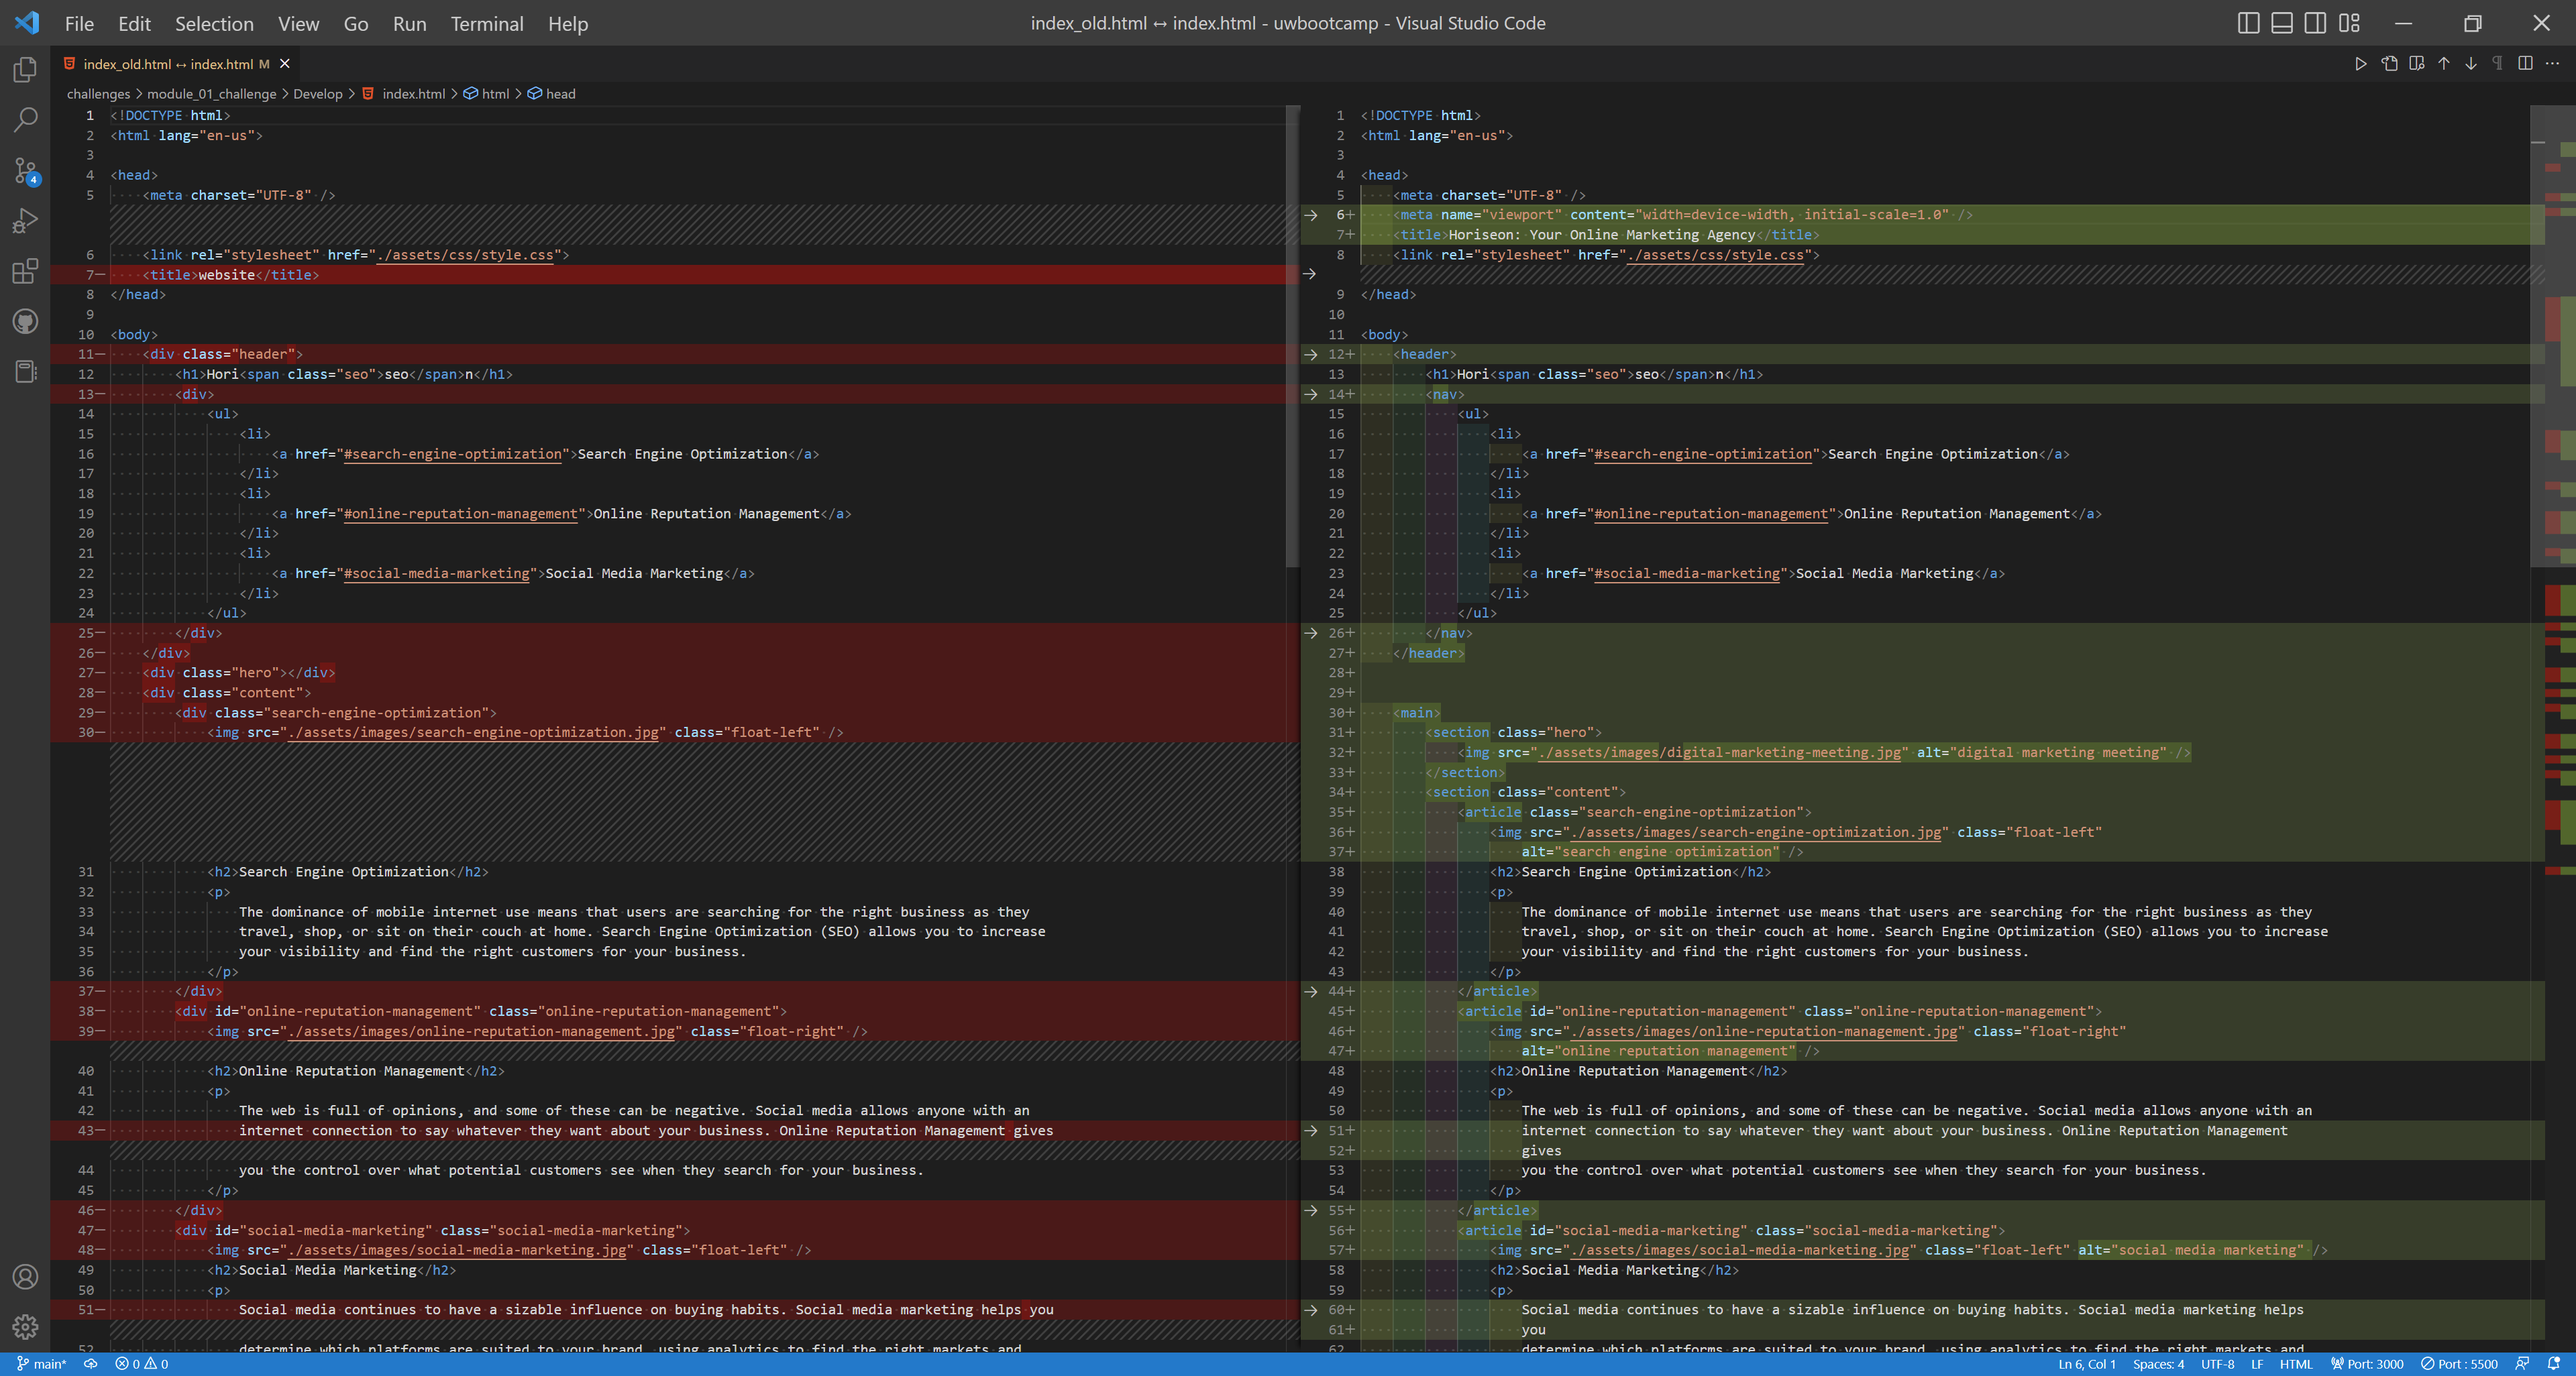
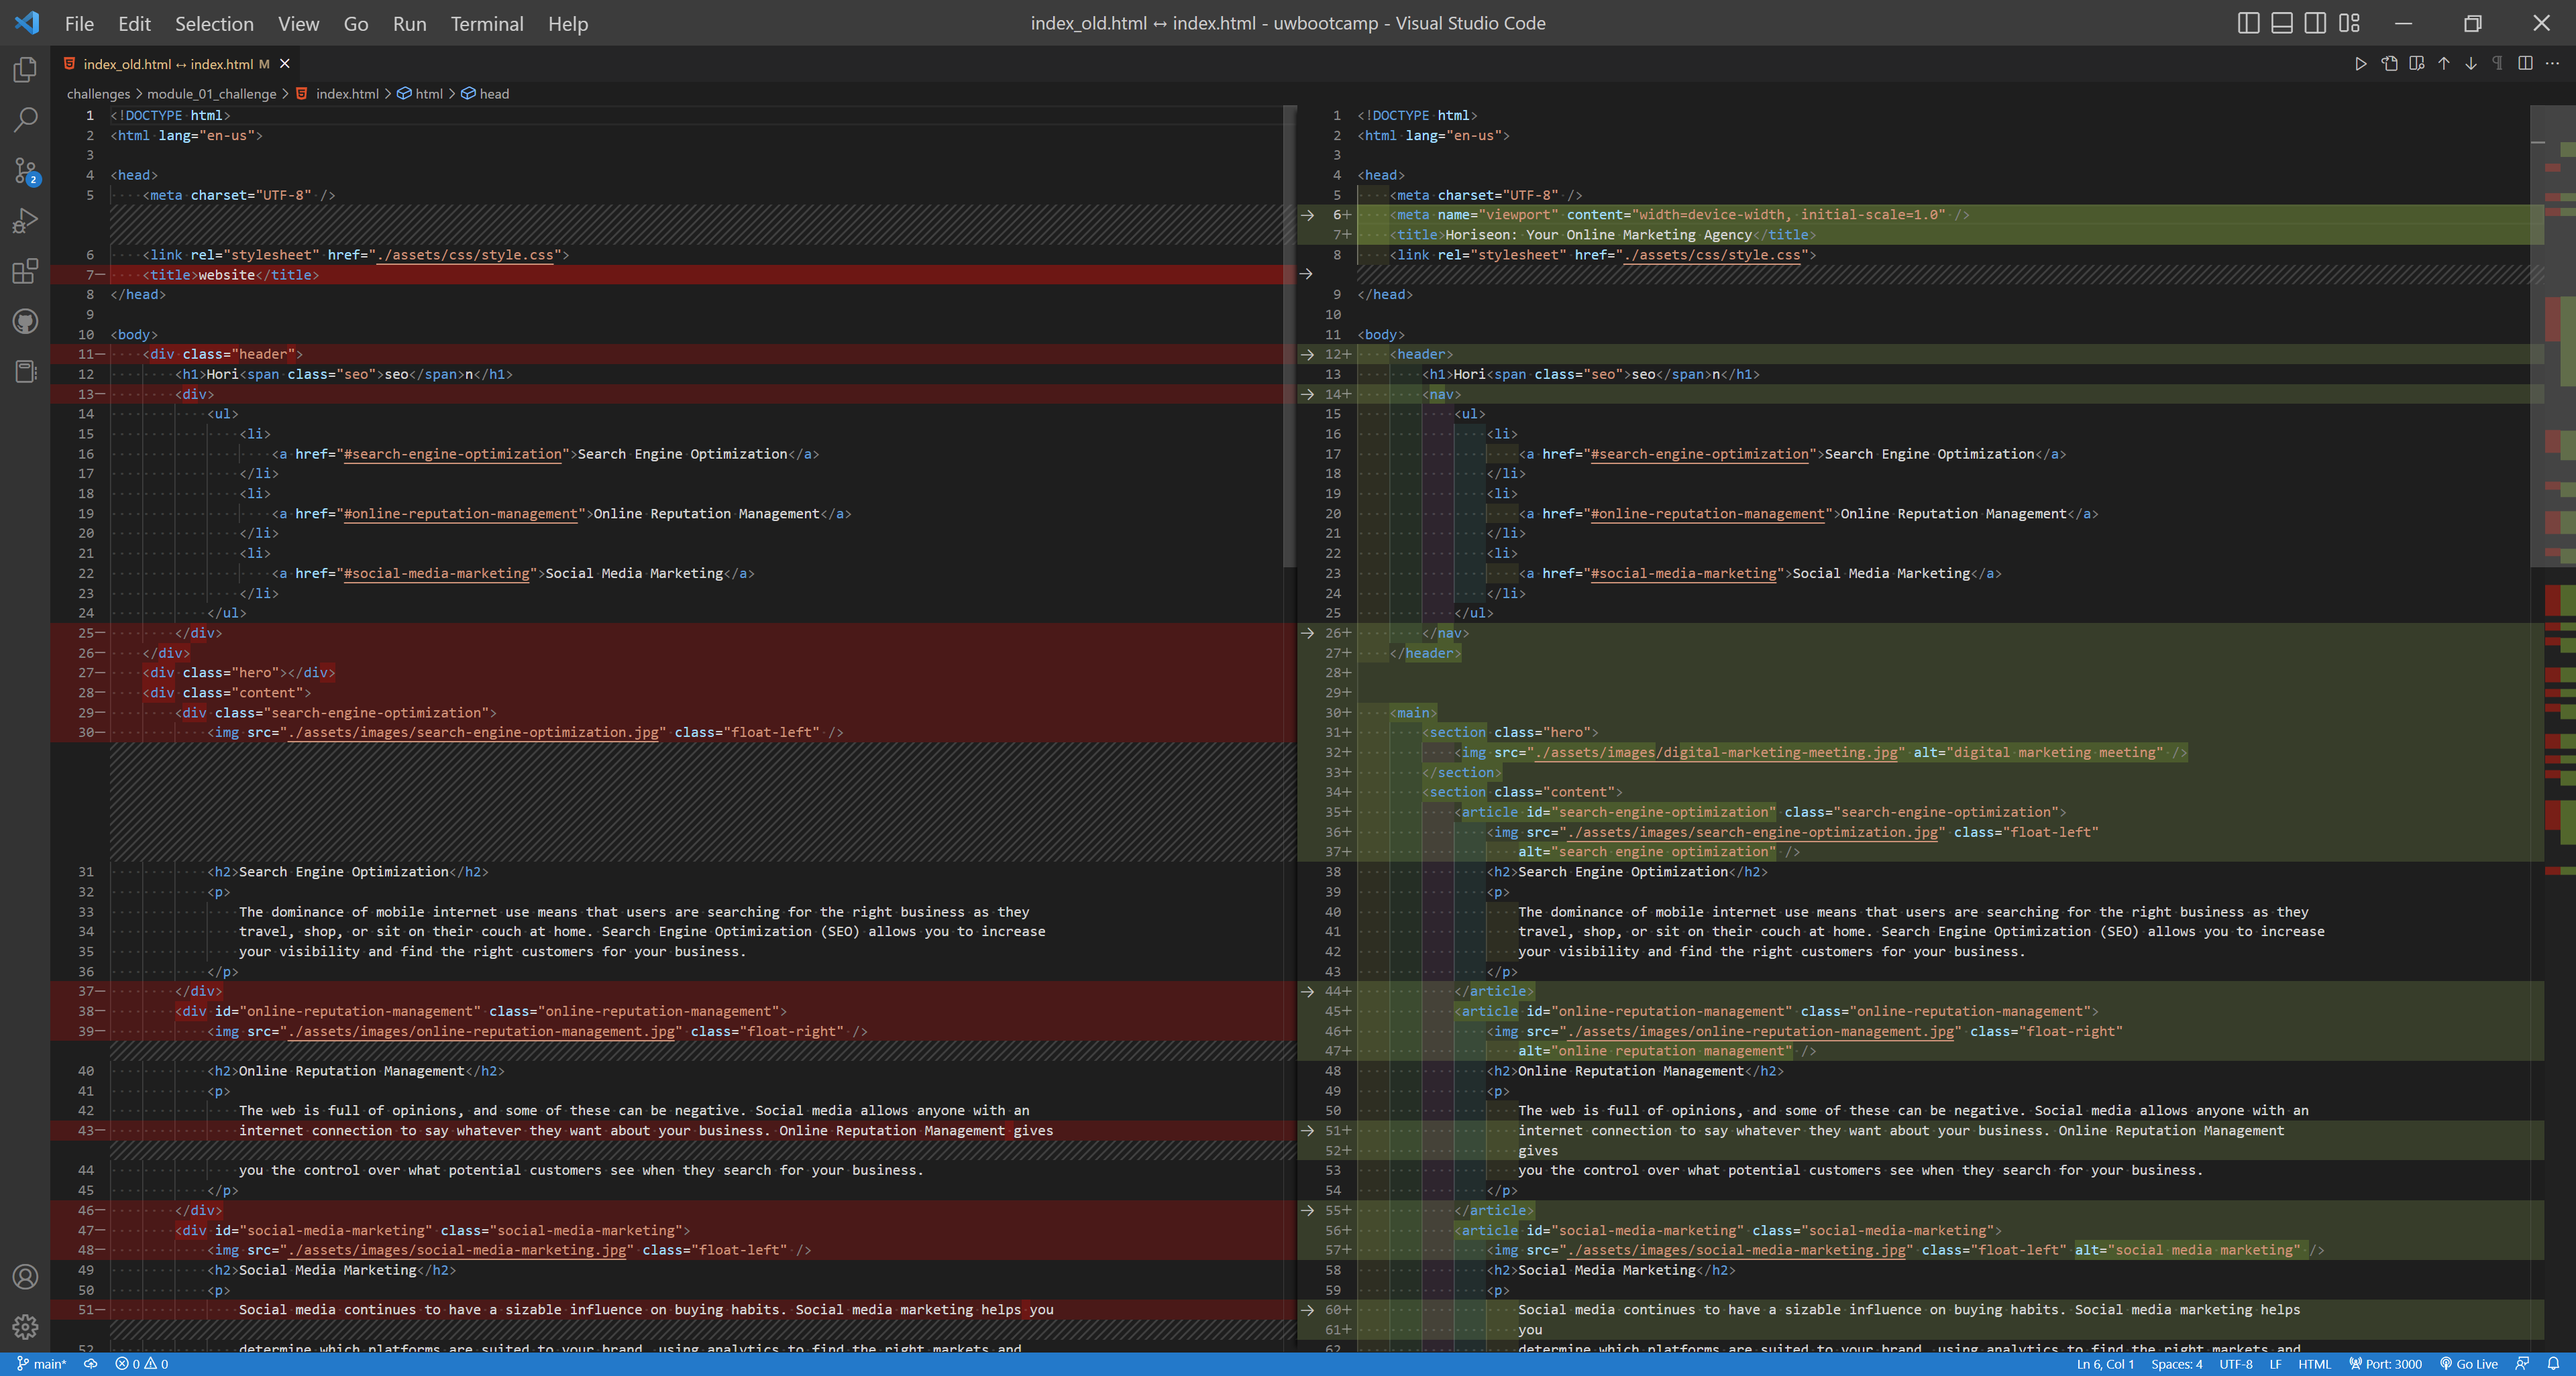
add img id

diff --git a/index_old.html b/index_old.html
@@ -1,0 +1,91 @@
+<!DOCTYPE html>
+<html lang="en-us">
+
+<head>
+    <meta charset="UTF-8" />
+    <link rel="stylesheet" href="./assets/css/style.css">
+    <title>website</title>
+</head>
+
+<body>
+    <div class="header">
+        <h1>Hori<span class="seo">seo</span>n</h1>
+        <div>
+            <ul>
+                <li>
+                    <a href="#search-engine-optimization">Search Engine Optimization</a>
+                </li>
+                <li>
+                    <a href="#online-reputation-management">Online Reputation Management</a>
+                </li>
+                <li>
+                    <a href="#social-media-marketing">Social Media Marketing</a>
+                </li>
+            </ul>
+        </div>
+    </div>
+    <div class="hero"></div>
+    <div class="content">
+        <div class="search-engine-optimization">
+            <img src="./assets/images/search-engine-optimization.jpg" class="float-left" />
+            <h2>Search Engine Optimization</h2>
+            <p>
+                The dominance of mobile internet use means that users are searching for the right business as they
+                travel, shop, or sit on their couch at home. Search Engine Optimization (SEO) allows you to increase
+                your visibility and find the right customers for your business.
+            </p>
+        </div>
+        <div id="online-reputation-management" class="online-reputation-management">
+            <img src="./assets/images/online-reputation-management.jpg" class="float-right" />
+            <h2>Online Reputation Management</h2>
+            <p>
+                The web is full of opinions, and some of these can be negative. Social media allows anyone with an
+                internet connection to say whatever they want about your business. Online Reputation Management gives
+                you the control over what potential customers see when they search for your business.
+            </p>
+        </div>
+        <div id="social-media-marketing" class="social-media-marketing">
+            <img src="./assets/images/social-media-marketing.jpg" class="float-left" />
+            <h2>Social Media Marketing</h2>
+            <p>
+                Social media continues to have a sizable influence on buying habits. Social media marketing helps you
+                determine which platforms are suited to your brand, using analytics to find the right markets and
+                increase your lead generation.
+            </p>
+        </div>
+    </div>
+    <div class="benefits">
+        <div class="benefit-lead">
+            <h3>Lead Generation</h3>
+            <img src="./assets/images/lead-generation.png" />
+            <p>
+                Inbound strategies for lead generation require less work for your business, bringing customers directly
+                to your website.
+            </p>
+        </div>
+        <div class="benefit-brand">
+            <h3>Brand Awareness</h3>
+            <img src="./assets/images/brand-awareness.png" />
+            <p>
+                Users find your business through paid and organic searches, increasing the search ranking and visibility
+                for your business.
+            </p>
+        </div>
+        <div class="benefit-cost">
+            <h3>Cost Management</h3>
+            <img src="./assets/images/cost-management.png"></img>
+            <p>
+                As the search ranking for your business increases, your advertising costs decrease, and you no longer
+                need to advertise your page.
+            </p>
+        </div>
+    </div>
+    <div class="footer">
+        <h2>Made with ❤ by Horiseon</h2>
+        <p>
+            &copy; 2019 Horiseon Social Solution Services, Inc.
+        </p>
+    </div>
+</body>
+
+</html>

diff --git a/index.html b/index.html
@@ -32,7 +32,7 @@
             <img src="./assets/images/digital-marketing-meeting.jpg" alt="digital marketing meeting" />
         </section>
         <section class="content">
-            <article class="search-engine-optimization">
+            <article id="search-engine-optimization" class="search-engine-optimization">
                 <img src="./assets/images/search-engine-optimization.jpg" class="float-left"
                     alt="search engine optimization" />
                 <h2>Search Engine Optimization</h2>
